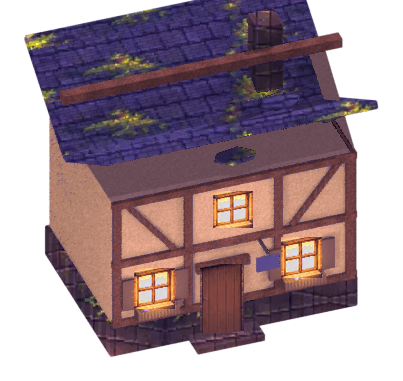
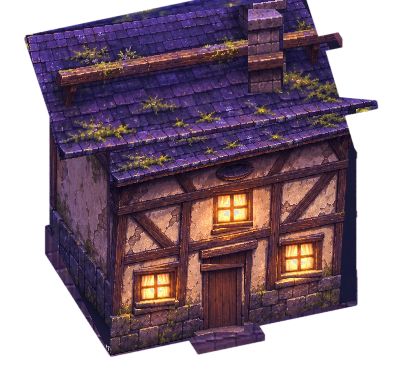
Maison (essai v2) : référence officielle reprojetée face par face sur la géométrie exacte du gabarit (toit, mur latéral, façade), porte et fenêtres dans les rectangles du gabarit, cheminée ; ancienne version conservée ; comparatif en jeu
Claude-Session: https://claude.ai/code/session_012E4v6z344cYPoq1zZdXX38

diff --git a/tools/essai/maison_reference.py b/tools/essai/maison_reference.py
@@ -1,0 +1,140 @@
+"""ESSAI — maison d'après la RÉFÉRENCE OFFICIELLE (art/source/concepts_2026-11-07/maison_reference_officielle.webp),
+ramenée face par face sur la GÉOMÉTRIE EXACTE du gabarit du jeu (silhouette, toit, ouvertures, emprise inchangés).
+Chaque face plane (façade, mur latéral gauche, versant de toit) est reprojetée de la référence vers le gabarit par
+une homographie définie par ses 4 coins (repérés à la main sur les deux images, ci-dessous). Puis :
+  - porte et 3 fenêtres de la référence redimensionnées dans les rectangles EXACTS du gabarit ;
+  - cheminée et poutre faîtière de la référence posées aux emplacements du gabarit ;
+  - pixels du gabarit non couverts (débords, épaisseurs) : maison de l'essai v2 ; silhouette = alpha du gabarit ;
+  - étalonnage crépusculaire léger (fenêtres chaudes conservées).
+    python3 tools/essai/maison_reference.py [v2]"""
+import json, sys
+import numpy as np
+from PIL import Image
+
+V = sys.argv[1] if len(sys.argv) > 1 else "v2"
+OUT = "art/explore_hd2d/essai_%s/" % V
+GAB = "docs/media/gabarits_exploration/"
+REF = np.asarray(Image.open("art/source/concepts_2026-11-07/maison_reference_officielle.webp").convert("RGB")).astype(np.float32)
+meta = json.load(open(GAB + "gabarits.json"))
+box = meta["elements"]["maison"]["rectangle_ecran"]
+full = np.asarray(Image.open(GAB + "maison/maison_complete_cadre_1408x800.png").convert("RGBA")).astype(np.float32)[box[1]:box[3], box[0]:box[2]]
+fallback = np.asarray(Image.open(OUT + "maison.png").convert("RGBA")).astype(np.float32) if False else None
+H, W = full.shape[:2]
+alpha = full[..., 3]
+
+# coins (référence -> gabarit), ordre : haut-gauche, haut-droit, bas-droit, bas-gauche
+OX, OY = 40, 90                                            # coins relevés sur un recadrage (40, 90) de la planche
+FACES = {
+    "toit":    ([(65, 100), (690, 38), (805, 250), (195, 335)], [(25, 35), (310, -5), (375, 105), (60, 160)]),
+    "facade":  ([(205, 352), (775, 270), (775, 690), (205, 775)], [(110, 151), (355, 108), (355, 300), (110, 355)]),
+    "lateral": ([(45, 310), (205, 352), (205, 775), (45, 560)], [(48, 100), (110, 151), (110, 355), (46, 228)]),
+}
+FACES = {k: ([(x + OX, y + OY) for x, y in s_], d) for k, (s_, d) in FACES.items()}
+# ouvertures de la référence (coordonnées de la planche) : étage, rdc gauche, rdc droite, porte
+REF_OPEN = {"etage": (488, 465, 575, 555), "rdc_g": (300, 615, 405, 730), "rdc_d": (652, 577, 760, 687), "porte": (458, 590, 595, 780)}
+ORDER = ["lateral", "facade", "toit"]                       # le toit déborde par-dessus les murs
+
+
+def homography(src, dst, wts=None):
+    A = []
+    for k, ((x, y), (u, v)) in enumerate(zip(src, dst)):
+        w = 1.0 if wts is None else wts[k]
+        A += [[w * x, w * y, w, 0, 0, 0, -w * u * x, -w * u * y, -w * u], [0, 0, 0, w * x, w * y, w, -w * v * x, -w * v * y, -w * v]]
+    h = np.linalg.svd(np.array(A, float))[2][-1]
+    return (h / h[-1]).reshape(3, 3)
+
+
+def inside(poly, xx, yy):
+    m = np.ones(xx.shape, bool)
+    n = len(poly)
+    sgn = None
+    for i in range(n):
+        (x0, y0), (x1, y1) = poly[i], poly[(i + 1) % n]
+        c = (x1 - x0) * (yy - y0) - (y1 - y0) * (xx - x0)
+        s = c >= 0
+        m &= s if (sgn is None or sgn) else ~s
+        if sgn is None:
+            sgn = True
+    return m
+
+
+def sample(img, x, y):
+    x = np.clip(x, 0, img.shape[1] - 1.001); y = np.clip(y, 0, img.shape[0] - 1.001)
+    x0 = np.floor(x).astype(int); y0 = np.floor(y).astype(int); fx = (x - x0)[..., None]; fy = (y - y0)[..., None]
+    return (img[y0, x0] * (1 - fx) * (1 - fy) + img[y0, x0 + 1] * fx * (1 - fy) + img[y0 + 1, x0] * (1 - fx) * fy + img[y0 + 1, x0 + 1] * fx * fy)
+
+
+yy, xx = np.mgrid[0:H, 0:W].astype(np.float64)
+out = np.asarray(Image.open(OUT + "maison.png").convert("RGBA")).astype(np.float32)[..., :3].copy()   # repli : essai v2
+covered = np.zeros((H, W), bool)
+ops = meta.get("ouvertures_maison_ecran", [])
+
+
+def gab_open(kind):
+    for o in ops:
+        r = o["rectangle_dans_gabarit"]
+        if kind == "porte" and o["type"] == "porte":
+            return r
+        if o["type"] != "porte":
+            if kind == "etage" and r[1] < 230:
+                return r
+            if kind == "rdc_g" and r[1] >= 230 and r[0] < 200:
+                return r
+            if kind == "rdc_d" and r[1] >= 230 and r[0] >= 200:
+                return r
+
+
+def ctr(r):
+    return ((r[0] + r[2]) / 2, (r[1] + r[3]) / 2)
+
+
+for name in ORDER:
+    src, dst = FACES[name]
+    if name == "facade":                                     # la façade est calée aussi sur les 4 ouvertures (poids fort)
+        s2 = list(src) + [ctr(REF_OPEN[k]) for k in REF_OPEN]
+        d2 = list(dst) + [ctr(gab_open(k)) for k in REF_OPEN]
+        # transformation AFFINE (projection orthographique : une façade plane reste un parallélogramme), ajustée
+        # aux moindres carrés sur les 4 coins et les coins des 4 ouvertures (poids fort) : stable, sans fuite
+        s2 = list(src); d2 = list(dst); wts = [1.0] * 4
+        for k in REF_OPEN:
+            rs, rg = REF_OPEN[k], gab_open(k)
+            for (a_, b_), (c_, e_) in zip(((rs[0], rs[1]), (rs[2], rs[3]), (rs[0], rs[3]), (rs[2], rs[1])), ((rg[0], rg[1]), (rg[2], rg[3]), (rg[0], rg[3]), (rg[2], rg[1]))):
+                s2.append((a_, b_)); d2.append((c_, e_)); wts.append(3.0)
+        Aa = np.array([[x, y, 1] for x, y in d2]) * np.array(wts)[:, None]
+        Bb = np.array(s2) * np.array(wts)[:, None]
+        aff = np.linalg.lstsq(Aa, Bb, rcond=None)[0].T          # gabarit -> référence
+        Hm = np.vstack([aff, [0, 0, 1]])
+    else:
+        Hm = homography(dst, src)                            # gabarit -> référence (lecture inverse)
+    m = inside(dst, xx, yy)
+    if not m.any():
+        m = inside(dst[::-1], xx, yy)
+    pts = np.stack([xx[m], yy[m], np.ones(m.sum())])
+    q = Hm @ pts; q = q[:2] / q[2]
+    out[m] = sample(REF, q[0], q[1])
+    covered |= m
+
+
+def paste(rect, crop_box, pad=0):
+    x0, y0, x1, y1 = rect
+    x0 -= pad; y0 -= pad; x1 += pad; y1 += pad
+    c = REF[crop_box[1]:crop_box[3], crop_box[0]:crop_box[2]]
+    im = np.asarray(Image.fromarray(c.astype(np.uint8)).resize((x1 - x0, y1 - y0), Image.LANCZOS)).astype(np.float32)
+    out[y0:y1, x0:x1] = im
+
+
+for k in REF_OPEN:                                            # ouvertures EXACTEMENT dans les rectangles du gabarit
+    paste(gab_open(k), REF_OPEN[k], 1 if k == "porte" else 3)
+# cheminée de la référence à l'emplacement de celle du gabarit (bloc gris de la carte des zones)
+zones = np.asarray(Image.open(GAB + "maison/maison_zones.png").convert("RGBA")).astype(np.float32)
+leg = {k: np.array([int(v[i:i + 2], 16) for i in (1, 3, 5)], np.float32) for k, v in json.load(open(GAB + "legende_zones.json")).items()}
+stone = (np.abs(zones[..., :3] - leg["pierre"]).sum(-1) < 45) & (zones[..., 3] > 100)
+ys, xs = np.nonzero(stone & (yy < 100))
+if len(xs):
+    paste((int(xs.min()), int(ys.min()), int(xs.max()) + 1, int(ys.max()) + 1), (610, 120, 680, 285))
+# étalonnage crépusculaire : ombres bleutées, fenêtres chaudes gardées
+warm = (out[..., 0] > 170) & (out[..., 0] > out[..., 2] * 1.4)
+cool = out * np.array([0.88, 0.87, 1.0]) + np.array([3, 2, 12])
+out = np.where(warm[..., None], out, cool)
+Image.fromarray(np.dstack([np.clip(out, 0, 255), alpha]).astype(np.uint8)).save(OUT + "maison.png")
+print("maison (référence officielle) : %d×%d, faces couvrant %.0f %% de la silhouette" % (W, H, 100 * (covered & (alpha > 16)).sum() / max(1, (alpha > 16).sum())))

diff --git a/docs/ESSAI_DECOR_V2.md b/docs/ESSAI_DECOR_V2.md
@@ -40,3 +40,18 @@ vidéo `essai_v2_demo.mp4` (parcours clavier puis démo : maison, arbres, dialog
   lumineux peint sur le chemin non lié aux lanternes.
 - Ombres au sol des arbres : celles des anciens arbres (rondes).
 - Mélange de finesse : décor illustré fin, personnages en gros pixels (attendus avec les nouveaux sprites).
+
+## Correction de la maison — référence officielle (7 novembre)
+Source conservée : `art/source/concepts_2026-11-07/maison_reference_officielle.webp`.
+`tools/essai/maison_reference.py` reprojette la référence **face par face** sur la géométrie exacte du gabarit :
+- toit et mur latéral gauche : homographie par leurs 4 coins ;
+- façade : transformation affine ajustée sur ses coins **et** sur les 4 ouvertures, puis porte et 3 fenêtres de la
+  référence posées **dans les rectangles exacts du gabarit** (aucun déplacement d'ouverture ni de collision) ;
+- cheminée et poutre faîtière de la référence ; repli sur la version précédente pour les débords (5 % des pixels) ;
+- étalonnage crépusculaire léger, fenêtres chaudes conservées.
+Version précédente gardée : `art/explore_hd2d/essai_v2/maison_transfert_matieres.png`.
+Comparatif en jeu : `docs/media/essai_v2/maison_reference_comparatif.jpg`.
+
+Vérifications : 66/66 tests, parcours clavier RÉUSSI, garde 11/11, retour de combat RÉUSSI, exploration 66,0 images/s.
+Limites : léger liseré sombre sur l'arête droite de la façade ; l'avancée de toit de la référence est un peu plus
+basse que celle du gabarit (la porte d'étage reste visible) ; la porte de la référence est réduite (≈ 45 px de haut).
